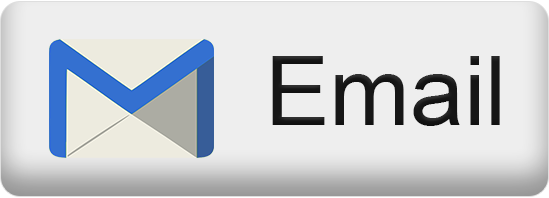
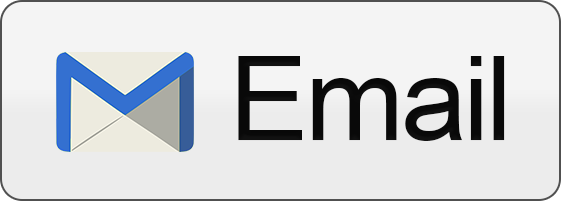
WE HAVE A BUTTON!

diff --git a/static/core/css/wikivinci.css b/static/core/css/wikivinci.css
@@ -217,6 +217,43 @@ h6 {
 	border:1px solid #3c3e43;
 }
 
+.custom-share-btn {
+	box-sizing:border-box;
+	height:20px;
+	max-width:100%;
+	position:relative;
+	background-color:#eee;
+	background-image:-webkit-linear-gradient(#fff,#dedede);
+	background-image:linear-gradient(#fff,#dedede);
+	border:#ccc solid 1px;
+	border-radius:3px;
+	color:#333;
+	font-weight:bold;
+	text-shadow:0 1px 0 rgba(255,255,255,.5);
+	cursor:pointer;
+	max-width:98%;
+	font-family:Arial;
+	overflow:hidden;
+	color:#333;
+	font-weight:bold;
+	text-shadow:0 1px 0 rgba(255,255,255,.5);
+	cursor:pointer;
+	padding-left:3px;
+	font-size:11px;
+	font-weight:700;
+	line-height:19px;
+	text-decoration:none;
+}
+
+.custom-share-btn:hover {
+	text-decoration:none; 
+}
+
+.custom-share-btn > i.fa {
+	margin-right:3px;
+	color:#CA231C;
+}
+
 /*****MARKDOWN STYLING*****/
 
 .markdown-formatting {

diff --git a/templates/core/single-post.html b/templates/core/single-post.html
@@ -44,10 +44,10 @@
 		<p class="lighter-font post-descr">{{ post.description|urlize|linebreaksbr }}</p>
 
 		<div class="addthis_toolbox addthis_default_style hidden-xs hidden-sm">
-			<a class="addthis_button_linkedin_counter" li:counter="none"></a>
+			<!-- <a class="addthis_button_linkedin_counter" li:counter="none"></a> -->
 			<a class="addthis_button_tweet" tw:text="{{ post.title|truncatechars:100 }}. {% if post.owner.twitter_handle %}Submitted by {{ post.owner.twitter_handle }}{% endif %}"></a>
 			<a class="addthis_button_facebook_share" fb:share:layout="button"></a>
-			<!-- <a class="addthis_button_email"><img src="{% static 'core/images/email-share-icon.png' %}" /></a> -->
+			<a class="custom-share-btn" href="#"><i class="fa fa-envelope"></i> Email</a>
 		</div>
 			
 		<div id="comments">
